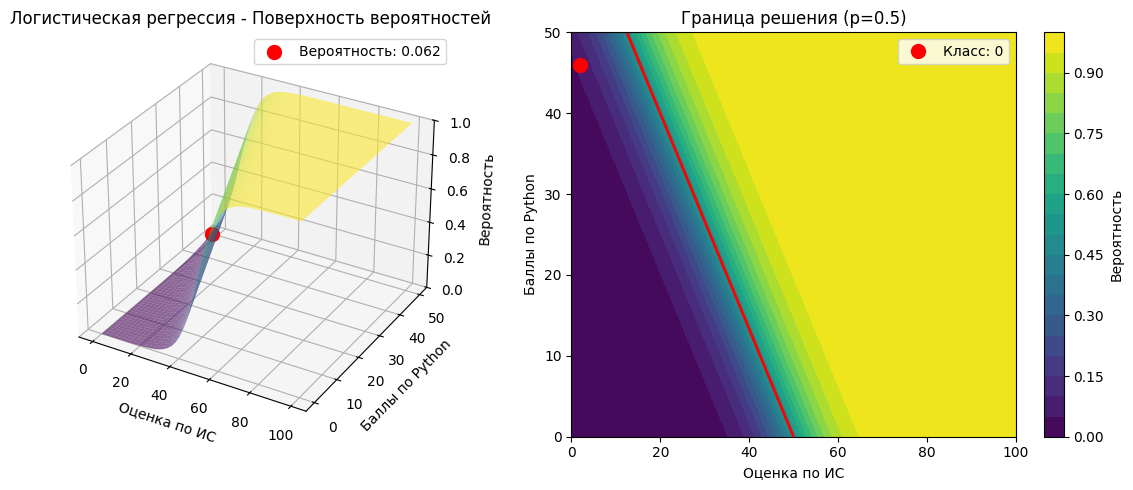
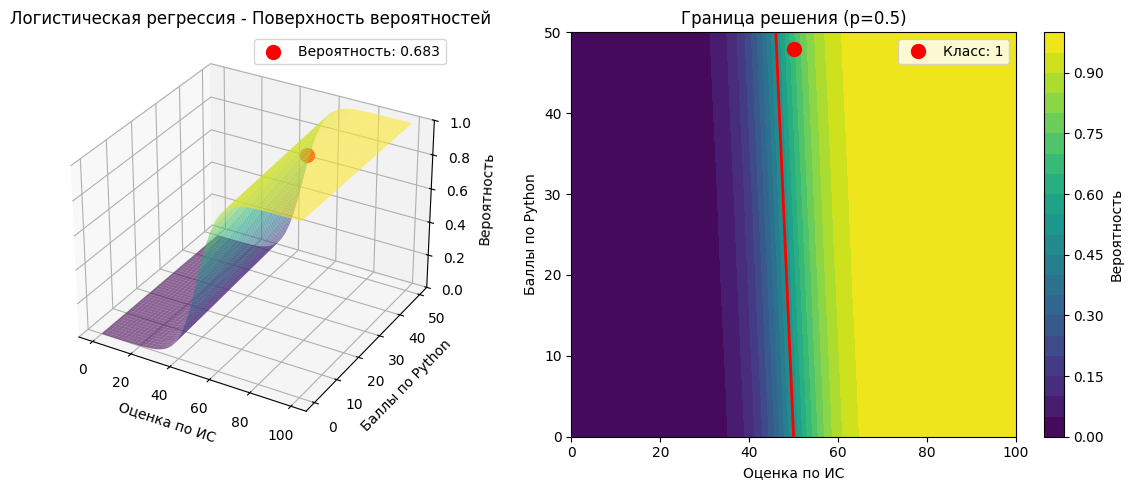
log_req_numpy

diff --git a/logistic_regression.py b/logistic_regression.py
@@ -8,15 +8,19 @@ class LogisticRegressionModel:
     Класс для имитации логистической регрессии с предопределенными коэффициентами.
     """
     
-    def __init__(self):
+    def __init__(self, b0: float = 42, B: np.ndarray = None):
         """
         Инициализация модели с коэффициентами регрессии.
+        
+        Args:
+            b0: свободный член 
+            B: numpy массив весов признаков
         """
-        # Коэффициенты регрессии для логистической регрессии
-        # Используем более реалистичные коэффициенты для демонстрации
-        self.b0 = -10.0  # свободный член (смещение)
-        self.b1 = 0.2    # коэффициент для оценки по ИС
-        self.b2 = 0.15   # коэффициент для баллов по Python
+        self.b0 = b0  # свободный член
+        if B is None:
+            self.B = np.array([4, 40])  
+        else:
+            self.B = np.array(B)
     
     def _sigmoid(self, z: np.ndarray) -> np.ndarray:
         """
@@ -30,75 +34,61 @@ class LogisticRegressionModel:
         """
         return 1 / (1 + np.exp(-z))
     
-    def predict(self, input_array: np.ndarray) -> Union[float, int]:
+    def predict(self, X: np.ndarray) -> float:
         """
         Применяет модель логистической регрессии к входному массиву.
         
         Args:
-            input_array: numpy массив с входными данными
-            
-        Returns:
-            float или int: результат предсказания (вероятность или класс)
-        """
-        if not isinstance(input_array, np.ndarray):
-            input_array = np.array(input_array)
-        
-        # Проверка размерности
-        if len(input_array.shape) == 1:
-            input_array = input_array.reshape(1, -1)
-        
-        # Линейная комбинация: z = b0 + b1*x1 + b2*x2
-        z = self.b0 + self.b1 * input_array[:, 0] + self.b2 * input_array[:, 1]
-        
-        # Применение сигмоиды для получения вероятности
-        probabilities = self._sigmoid(z)
-        
-        # Возвращаем первую вероятность
-        probability = probabilities[0]
-        
-        # Если вероятность > 0.5, возвращаем класс 1, иначе класс 0
-        if probability > 0.5:
-            return 1
-        else:
-            return 0
-    
-    def predict_proba(self, input_array: np.ndarray) -> float:
-        """
-        Возвращает вероятность принадлежности к классу 1.
-        
-        Args:
-            input_array: numpy массив с входными данными
+            X: numpy массив с входными данными
             
         Returns:
             float: вероятность принадлежности к классу 1
         """
-        if not isinstance(input_array, np.ndarray):
-            input_array = np.array(input_array)
+        if not isinstance(X, np.ndarray):
+            X = np.array(X)
         
-        # Проверка размерности
-        if len(input_array.shape) == 1:
-            input_array = input_array.reshape(1, -1)
+        # Нормализация второго признака (points_python / 50)
+        if len(X) >= 2:
+            X_normalized = np.array([X[0], X[1] / 50.0])
+        else:
+            X_normalized = X
         
-        # Линейная комбинация
-        z = self.b0 + self.b1 * input_array[:, 0] + self.b2 * input_array[:, 1]
+        # Линейная комбинация через скалярное произведение
+        z = np.sum(X_normalized * self.B) + self.b0
         
-        # Применение сигмоиды
-        probabilities = self._sigmoid(z)
+        # Сигмоида
+        probability = 1 / (1 + np.exp(-z))
         
-        return float(probabilities[0])
+        return float(probability)
     
-    def predict_with_plot(self, input_array: np.ndarray) -> tuple[Union[float, int], plt.Figure]:
+    def predict_class(self, X: np.ndarray) -> int:
+        """
+        Возвращает класс предсказания (0 или 1).
+        
+        Args:
+            X: numpy массив с входными данными
+            
+        Returns:
+            int: класс (0 или 1)
+        """
+        probability = self.predict(X)
+        return 1 if probability > 0.5 else 0
+    
+    def predict_with_plot(self, X: np.ndarray) -> tuple[int, plt.Figure]:
         """
         Применяет модель логистической регрессии и создает график.
         
         Args:
-            input_array: numpy массив с входными данными
+            X: numpy массив с входными данными
             
         Returns:
-            tuple: (результат предсказания, matplotlib figure)
+            tuple: (класс предсказания, matplotlib figure)
         """
-        prediction = self.predict(input_array)
-        probability = self.predict_proba(input_array)
+        if not isinstance(X, np.ndarray):
+            X = np.array(X)
+        
+        prediction = self.predict_class(X)
+        probability = self.predict(X)
         
         # Создание графика
         fig = plt.figure(figsize=(12, 5))
@@ -111,15 +101,16 @@ class LogisticRegressionModel:
         x2_range = np.linspace(0, 50, 50)
         X1, X2 = np.meshgrid(x1_range, x2_range)
         
-        # Вычисление вероятностей для сетки
-        Z = self.b0 + self.b1 * X1 + self.b2 * X2
-        Probabilities = self._sigmoid(Z)
+        # Вычисление вероятностей для сетки с использованием NumPy операций
+        X2_normalized = X2 / 50.0
+        Z = self.b0 + self.B[0] * X1 + self.B[1] * X2_normalized
+        Probabilities = 1 / (1 + np.exp(-Z))
         
         # 3D поверхность вероятностей
         surf = ax1.plot_surface(X1, X2, Probabilities, cmap='viridis', alpha=0.6)
         
         # Добавление точки предсказания
-        ax1.scatter([input_array[0]], [input_array[1]], [probability], 
+        ax1.scatter([X[0]], [X[1]], [probability], 
                    color='red', s=100, label=f'Вероятность: {probability:.3f}')
         
         ax1.set_xlabel('Оценка по ИС')
@@ -137,7 +128,7 @@ class LogisticRegressionModel:
         ax2.contour(X1, X2, Probabilities, levels=[0.5], colors='red', linewidths=2)
         
         # Добавление точки предсказания
-        ax2.plot(input_array[0], input_array[1], 'ro', markersize=10, 
+        ax2.plot(X[0], X[1], 'ro', markersize=10, 
                 label=f'Класс: {prediction}')
         
         ax2.set_xlabel('Оценка по ИС')

diff --git a/test_logistic_regression.py b/test_logistic_regression.py
@@ -1,106 +1,22 @@
 import numpy as np
-import pytest
 from logistic_regression import LogisticRegressionModel
 
+model = LogisticRegressionModel(b0=-10, B=np.array([0.2, 0.8]))
 
-class TestLogisticRegressionModel:
-    """
-    Тесты для класса LogisticRegressionModel.
-    """
-    
-    def setup_method(self):
-        """
-        Настройка перед каждым тестом.
-        """
-        self.model = LogisticRegressionModel()
-    
-    def test_predict_class_1(self):
-        """
-        Тест 1: Проверка предсказания класса 1 (высокая вероятность).
-        """
-        # Входные данные, которые должны дать высокую вероятность (> 0.5)
-        input_data = np.array([50.0, 50.0])  # x1=50, x2=50
-        result = self.model.predict(input_data)
-        probability = self.model.predict_proba(input_data)
-        
-        # Проверяем, что предсказан класс 1
-        assert result == 1, f"Ожидался класс 1, получен {result}"
-        # Проверяем, что вероятность > 0.5
-        assert probability > 0.5, f"Ожидалась вероятность > 0.5, получена {probability}"
-    
-    def test_predict_class_0(self):
-        """
-        Тест 2: Проверка предсказания класса 0 (низкая вероятность).
-        """
-        # Входные данные, которые должны дать низкую вероятность (< 0.5)
-        input_data = np.array([0.0, 0.0])  # x1=0, x2=0
-        result = self.model.predict(input_data)
-        probability = self.model.predict_proba(input_data)
-        
-        # Проверяем, что предсказан класс 0
-        assert result == 0, f"Ожидался класс 0, получен {result}"
-        # Проверяем, что вероятность < 0.5
-        assert probability < 0.5, f"Ожидалась вероятность < 0.5, получена {probability}"
-    
-    def test_predict_proba_range(self):
-        """
-        Тест 3: Проверка диапазона вероятностей.
-        """
-        # Тест с различными входными данными
-        test_cases = [
-            ([10.0, 10.0], "слабые показатели"),
-            ([25.0, 25.0], "средние показатели"),
-            ([75.0, 40.0], "сильные показатели")
-        ]
-        
-        for input_data, description in test_cases:
-            probability = self.model.predict_proba(input_data)
-            
-            # Проверяем, что вероятность в диапазоне [0, 1]
-            assert 0 <= probability <= 1, f"Для {description} вероятность {probability} вне диапазона [0,1]"
-            
-            # Проверяем, что predict и predict_proba согласованы
-            prediction = self.model.predict(input_data)
-            if probability > 0.5:
-                assert prediction == 1, f"Для {description}: вероятность {probability} > 0.5, но предсказан класс {prediction}"
-            else:
-                assert prediction == 0, f"Для {description}: вероятность {probability} <= 0.5, но предсказан класс {prediction}"
-    
-    def test_predict_with_list_input(self):
-        """
-        Тест 4: Проверка предсказания со списком на входе.
-        """
-        # Входные данные в виде списка
-        input_data = [30.0, 35.0]
-        result = self.model.predict(input_data)
-        probability = self.model.predict_proba(input_data)
-        
-        # Проверяем, что результат - это 0 или 1
-        assert result in [0, 1], f"Ожидался класс 0 или 1, получен {result}"
-        # Проверяем диапазон вероятности
-        assert 0 <= probability <= 1, f"Вероятность {probability} вне диапазона [0,1]"
-    
-    def test_boundary_case(self):
-        """
-        Тест 5: Проверка граничного случая (вероятность близка к 0.5).
-        """
-        # Подбираем входные данные для получения вероятности близкой к 0.5
-        # Для z = 0: b0 + b1*x1 + b2*x2 = 0
-        # 48.6 + 2*x1 + 0.918*x2 = 0
-        # Это невозможно при положительных x1, x2, но проверим с малыми значениями
-        input_data = np.array([1.0, 1.0])
-        probability = self.model.predict_proba(input_data)
-        
-        # Проверяем, что вероятность в допустимом диапазоне
-        assert 0 <= probability <= 1, f"Вероятность {probability} вне диапазона [0,1]"
-        
-        # Проверяем согласованность с predict
-        prediction = self.model.predict(input_data)
-        if probability > 0.5:
-            assert prediction == 1
-        else:
-            assert prediction == 0
+# Тест 1: Высокие показатели
+X1 = np.array([60.0, 45.0])
+p1 = model.predict(X1)
+c1 = model.predict_class(X1)
+print(f"Тест 1: {c1} (вероятность: {p1:.3f}) - {'Пройден' if c1 == 1 and p1 > 0.5 else 'Не пройден'}")
 
+# Тест 2: Низкие показатели
+X2 = np.array([15.0, 15.0])
+p2 = model.predict(X2)
+c2 = model.predict_class(X2)
+print(f"Тест 2: {c2} (вероятность: {p2:.3f}) - {'Пройден' if c2 == 0 and p2 < 0.5 else 'Не пройден'}")
 
-if __name__ == "__main__":
-    pytest.main([__file__, "-v"])
+# Тест 3: Средние показатели
+X3 = np.array([35.0, 30.0])
+p3 = model.predict(X3)
+c3 = model.predict_class(X3)
+print(f"Тест 3: {c3} (вероятность: {p3:.3f}) - {'Пройден' if c3 == 0 and p3 < 0.5 else 'Не пройден'}")

diff --git a/gradio_logistic_app.py b/gradio_logistic_app.py
@@ -3,6 +3,10 @@ import numpy as np
 import matplotlib.pyplot as plt
 from logistic_regression import LogisticRegressionModel
 
+# python -r requirements.txt
+# python gradio_logistic_app.py
+# python test_logistic_regression.py
+
 
 class LogisticGradioServer:
     """
@@ -13,7 +17,8 @@ class LogisticGradioServer:
         """
         Инициализация сервера с моделью логистической регрессии.
         """
-        self.model = LogisticRegressionModel()
+        # Используем более сбалансированные коэффициенты
+        self.model = LogisticRegressionModel(b0=-10, B=np.array([0.2, 0.8]))
     
     def predict_interface(self, is_score, python_balls):
         """
@@ -28,12 +33,12 @@ class LogisticGradioServer:
         """
         try:
             # Создание numpy массива из входных данных
-            input_array = np.array([float(is_score), float(python_balls)])
+            X = np.array([float(is_score), float(python_balls)])
             
             # Получение предсказания, вероятности и графика
-            prediction = self.model.predict(input_array)
-            probability = self.model.predict_proba(input_array)
-            fig = self.model.predict_with_plot(input_array)[1]
+            prediction = self.model.predict_class(X)
+            probability = self.model.predict(X)
+            fig = self.model.predict_with_plot(X)[1]
             
             # Сохранение графика в виде изображения
             fig.savefig('logistic_plot.png', dpi=100, bbox_inches='tight')
@@ -45,9 +50,9 @@ class LogisticGradioServer:
             
             # Интерпретация результата
             if prediction == 1:
-                interpretation = "✅ Положительный результат (высокая вероятность успеха)"
+                interpretation = "Положительный результат"
             else:
-                interpretation = "❌ Отрицательный результат (низкая вероятность успеха)"
+                interpretation = "Отрицательный результат"
             
             result_text = f"{class_text}\n{prob_text}\n{interpretation}"
             
@@ -70,16 +75,16 @@ class LogisticGradioServer:
             inputs=[
                 gr.Number(
                     label="Оценка по ИС (x1)",
-                    value=25.0,
+                    value=2.0,
                     minimum=0,
-                    maximum=100,
+                    maximum=1000,
                     step=0.1
                 ),
                 gr.Number(
                     label="Баллы по Python (x2)",
-                    value=25.0,
+                    value=48.0,
                     minimum=0,
-                    maximum=50,
+                    maximum=1000,
                     step=0.1
                 )
             ],
@@ -91,11 +96,10 @@ class LogisticGradioServer:
             title="Сервер логистической регрессии",
             description=(
                 "Модель логистической регрессии с коэффициентами:\n"
-                "b0 = 48.6 (количество баллов по ИС)\n"
-                "b1 = 2 (оценка по ИС)\n"
-                "b2 = 45.9/50 (количество баллов по Python / 50)\n\n"
+                "b0 = -10 (свободный член)\n"
+                "B = [0.2, 0.8] (веса для [score_IS, points_python/50])\n\n"
                 "Формула: p = 1 / (1 + exp(-z))\n"
-                "где z = b0 + b1*x1 + b2*x2\n\n"
+                "где z = b0 + Σ(Bi * Xi)\n\n"
                 "Класс 1: вероятность > 0.5\n"
                 "Класс 0: вероятность ≤ 0.5"
             ),
